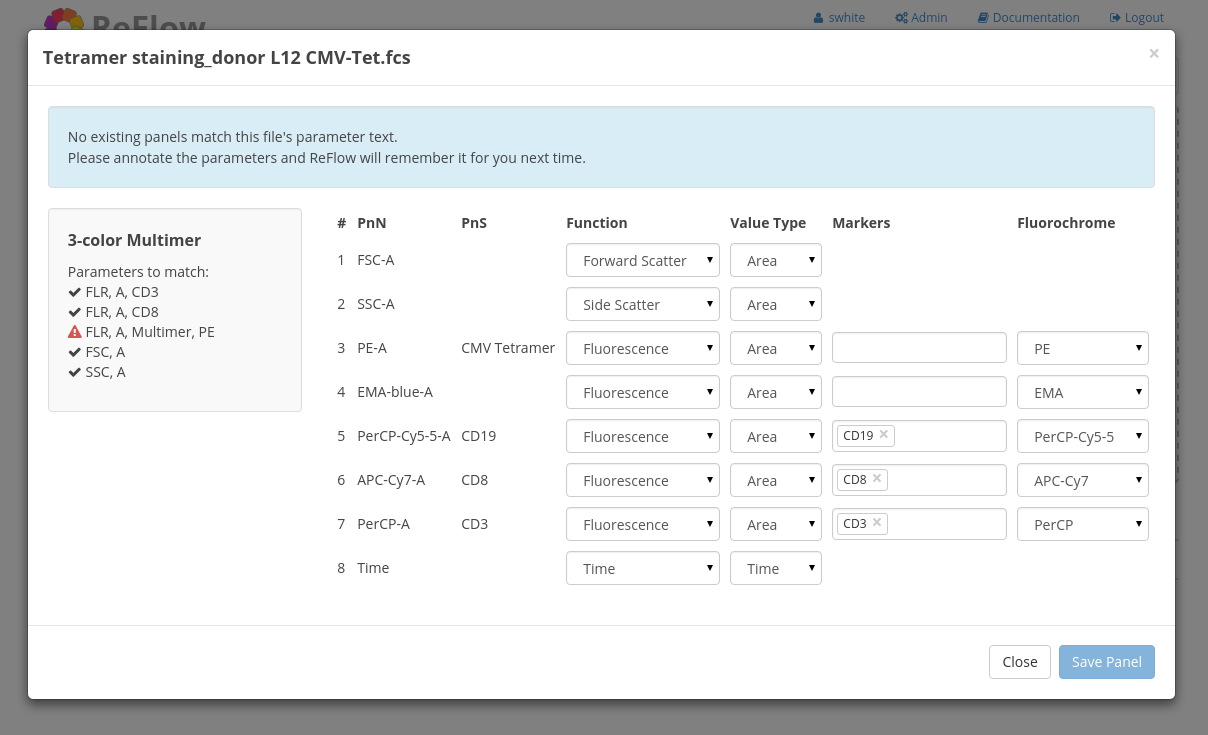
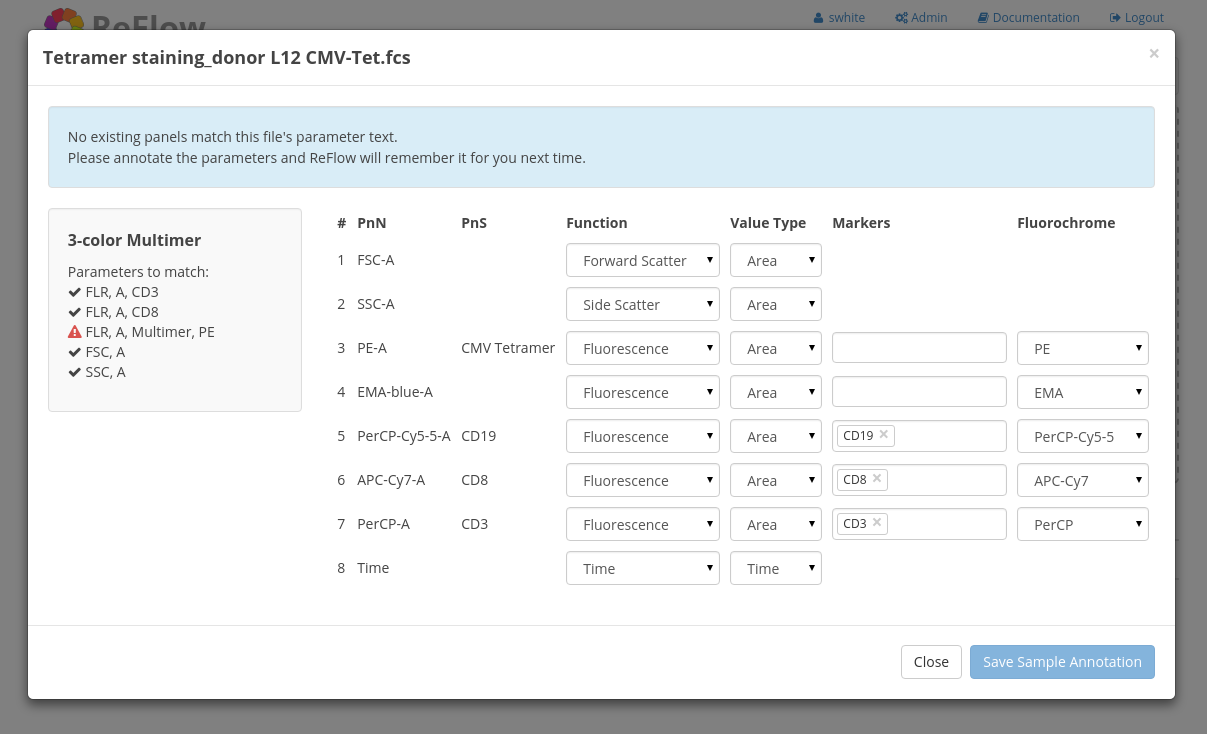
new docs build

diff --git a/static/docs/html/searchindex.js b/static/docs/html/searchindex.js
@@ -1,1 +1,1 @@
-Search.setIndex({envversion:46,filenames:["index","intro","permissions","server-setup","site-nav","tutorials-index","tutorials/add-fluorochrome","tutorials/add-marker","tutorials/add-panel-variant","tutorials/add-project","tutorials/add-site","tutorials/add-stimulation","tutorials/add-subject","tutorials/add-subject-group","tutorials/add-visit-type","tutorials/create-panel-template","tutorials/labelling-fcs-channels","tutorials/upload-samples","worker-setup"],objects:{},objnames:{},objtypes:{},terms:{"1_util":18,"22_linux_64":18,"5_5":18,"5_sampl":18,"case":4,"default":[3,4],"final":2,"function":[2,4,8,15],"import":[3,4],"long":15,"new":[],"static":3,"super":[2,3,4],"try":[6,7,17],"while":[1,2,4],a2dissit:3,a2ensit:3,abbrevi:[6,7,8],abl:15,about:[4,15],abov:[17,18],access:[1,2,3,4],accord:3,accordingli:2,account:[],acquir:4,acquisit:[1,4,17],across:[1,2,4],action:4,activ:4,actual:[4,8,15],addit:[4,15],address:4,admin:[3,4,18],administr:[2,4],after:2,alert:3,alia:3,all:[1,2,3,4,15,17,18],allow:[1,2,3,4,15,17],allowoverrid:3,along:[4,6,7,9,10,11,12,13,14],alreadi:[3,15,18],also:[2,3,4,6,7,10,11,12,13,14,15,17],alwai:3,ambigu:4,among:4,amount:17,analysi:[1,2,4],analyz:[1,4],andrewcron:18,ani:[1,2,3,4,15,17],annot:[],anoth:[1,16],antibodi:8,antigen:4,anywher:17,apach:[],apache_log_dir:3,apc:6,api:1,app:3,appear:[6,7,9,10,11,12,13,14,15,17],append:3,appli:2,applic:[1,3],appropri:17,apt:[3,18],aquaamin:[1,4],archiv:2,area:[4,8,15],aros:1,assai:[1,4],associ:[1,2,4,15],attempt:[1,4,17],authent:4,auto:17,autom:[1,2,4],automat:[9,15],avail:[3,4],avoid:[6,7],back:17,backend:3,bal:4,bar:17,base:1,base_dir:3,baselin:[1,4],basi:1,batch:4,becom:3,been:[15,17],befor:17,begin:15,belong:[1,2,4],below:[4,17],besid:[6,7,10,11,12,13,14,15,17],between:[2,4],bind:4,binutil:18,bioinformat:1,biolog:[1,4],biostatist:1,bit:18,blood:4,blue:4,bone:4,border:17,both:[2,4,15],box:[8,15,17],breadcrumb:4,bronchoalveolar:4,brows:[3,4],browser:1,bsd:1,build:[4,18],built:[],button:[6,7,8,9,10,11,12,13,14,15,17],calendar:17,call:15,can:[1,2,3,4,6,7,10,11,12,13,14,15,17,18],cancer:4,cannot:[2,6,7,10,11,12,13,14,15],categor:[1,17],categori:[],cd14:1,cd3:[1,7,8,15],cd8:[8,15],cell:[1,4],certain:3,cgi:3,chang:[2,3,4,18],channel:[],check:[17,18],checkbox:17,chemic:4,children:2,chmod:18,chosen:[8,17],click:[4,6,7,8,9,10,11,12,13,14,15,17],client:18,clinic:[1,4],clone:[3,18],close:[6,7,8,9,10,11,12,13,14],code:[1,4,12,17],coerc:1,coincident:[2,4],collect:[1,3,4],collectstat:3,color:[4,15],column:[8,17],com:[3,18],combin:[2,3,4,8],common:[1,4],commonli:[6,7,8],compens:[1,2],compil:18,complain:3,complet:[1,6,7,8,9,10,11,12,13,14,15,17],complex:1,comput:[4,18],condit:[1,4],conf:[3,18],config:18,configur:[],confirm:2,conjug:[4,8],construct:4,contain:[1,4,8,15],content:[0,3,18],continu:[15,17],control:[1,4,8],conveni:3,convent:4,convers:4,copi:3,core:3,corner:[4,15],correct:17,correctli:[3,17],correspond:15,could:[2,4],count:[],cours:4,creat:[],creation:[4,15],credenti:4,crit:3,criteria:1,csv:[],cuda:18,cuda_5:18,curl:18,current:4,custom:1,customlog:3,cy7:[8,15],cyarma:18,cyrand:18,cython:18,cytomet:4,cytometri:[1,4,8],dash:17,dashboard:4,data:[],date:[1,17],debug:3,defin:[1,4],delet:[2,15],deni:3,depart:1,depend:[3,4,18],deploi:[1,4],describ:[4,8,15],descript:[1,4,9,11,13,14],design:4,desir:[],detail:[],detect:4,dev:18,develop:[1,3,18],deviat:4,devicequeri:18,dialog:[2,16,17],differ:[1,2,3,4],differenti:[1,8],difficult:1,direct:15,directli:4,directori:[3,18],disabl:3,disallow:9,discrimin:4,displai:[2,4,6,7,8,9,10,11,12,13,14,17],distinguish:4,django_extens:3,django_settings_modul:3,djangorestframework:3,doe:[2,3,4],done:18,down:17,download:[3,18],dpmix:18,drag:17,drive:1,driver:[3,18],drop:17,duke:1,dukestat:18,duplic:[1,4,6,7,9,10,11,12,13,14,15,17],each:[1,2,4,15,17,18],edit:[1,2,3,4,15,18],either:17,els:[3,15],emerg:3,enabl:[],engin:3,ensur:[4,17],enter:[8,10,17],environ:3,equival:4,error:[3,6,7,9,10,11,12,13,14,15,17],errorlog:3,especi:1,essenti:3,etc:[1,2,3,15,17,18],evalu:4,even:[1,4,8],everyth:[3,18],exact:4,exampl:[],execcgi:3,execut:18,exist:[1,2,15,17],exit:3,experi:[1,4,15],expertis:1,extens:[1,3],extra:15,fals:3,featur:[],field:[1,6,7,9,10,11,12,13,14,15,17],file:[1,2,3,4,16,17,18],fill:[6,7,9,11,12,13,14],filter:[1,2,3,12],find:[1,4],first:[4,15,17],fitc:[1,4,6,8,15],fl1:4,fl2:4,flow:[1,4,8,18],flowio:18,flowstat:18,flowutil:18,fluoresc:[4,8,15],fluorochrom:[],fmo:[4,8],focu:1,focus:1,follow:[2,3,4,8,15,17,18],followup:8,forget:4,form:[6,7,8,9,10,11,12,13,14,15],formal:[2,4],forward:[4,8,15],found:[2,4],fresh:18,from:[1,2,3,4,6,7,8,10,11,12,13,14,15,16,17,18],full:[4,8,15],further:1,gcc:18,gener:[2,3,4],generate_secret_kei:3,get:[3,18],get_wsgi_appl:3,gfortran:18,git:[3,18],github:[3,18],give:15,global:3,govern:4,gpu:4,gpustat:18,grant:3,granular:2,green:[4,8,15],grei:17,group:[],guardian:3,guid:[3,4,18],hand:15,harmon:1,have:[1,2,3,4,6,7,10,11,12,13,14,15,17,18],head:[6,7,8,10,11,12,13,14,15,17],header:[],height:[4,15],here:[3,15],hide:3,hierarchi:1,home:[],host:[3,18],how:1,howev:[1,2,4,15,17,18],http:[3,18],identif:[1,4],identifi:[1,4,17],ifng:[1,7],implement:1,inaccur:4,includ:[2,3,4,15],inconsist:1,incorrectli:17,index:3,indic:4,individu:[1,4],info:[3,15],inform:[1,2,4,15,16],instal:[],instead:4,institut:[1,4],instruct:[15,17,18],intact:2,inter:1,interact:17,interpret:1,intracellular:4,introduct:[],ipython:3,isotyp:[4,8],json:18,just:[1,3],keep:[2,6,7],kei:3,lab:[1,4],label:[],laboratori:[1,4],larg:17,laser:4,last:[],latest:18,lavag:4,lead:4,least:[4,17],left:[15,17],level:[1,2,4,6,7,8,10,11,12,13,14,15,17],libapache2:3,libarmadillo:18,libbla:18,libboost1:18,liblapack:18,licens:1,light:17,like:3,likewis:4,limit:4,line:[3,17],link:[4,6,7,8,10,11,12,13,14,15,17],linux:18,list:[1,3,4,6,7,8,9,10,11,12,13,14,15,17],list_of_tz_zones_by_nam:3,listen:3,live:3,lnc:4,local:3,localhost:3,locat:[1,3,4,6,7,8,10,11,12,13,14,15,17,18],log:[3,4],login:[],loglevel:3,logo:4,logout:4,look:3,lower:15,lymph:4,machin:18,made:17,mai:[1,2,3,4],main:[3,6,7,10,11,12,13,14,15,17],major:[],make:[17,18],manual:[1,17],map:[1,4],mark:4,marker:[],marrow:4,master:1,match:[4,17],matplotlib:3,matric:1,matrix:1,meant:[1,2,3],mechan:8,media_root:3,meet:15,menu:17,metadata:[1,17],middlewar:3,minu:[4,8],mixtur:4,mkdir:3,mkdtemp:3,mod:3,modal:[6,7,8,9,10,11,12,13,14],model:1,modul:3,mononuclear:4,month:4,more:[1,3,4,15,16],most:1,move:17,mpi4pi:18,mplconfigdir:3,multim:[8,15],multipl:[1,4,15],must:[1,4,15],name:[1,2,3,4,9,10,11,13,14,15,17,18],namespac:1,navig:[],necessari:3,need:[3,8,15,17],net:18,next:17,nice:3,node:4,non:[],none:3,nor:2,normal:1,note:[1,3,4,6,7,9,11,12,13,14,15,18],notic:3,number:[1,3,4,17],numpi:[3,18],nvidia:[4,18],nvidia_cuda:18,object:1,occur:4,off:3,often:4,onc:[4,6,7,8,9,10,11,12,13,14,15,17,18],onli:[2,3,4],onlin:1,open:[1,3,17],oper:[1,2],option:[],orang:17,order:[3,4],org:3,organ:1,origin:2,other:[1,2,3,4,18],otherwis:17,our:[3,8,15],out:[1,4,6,7,9,11,12,13,14],output:3,own:[2,3,4],pacblu:1,packag:[3,18],page:[],pair:4,panel:[],paramet:[],parent:4,part:[15,16],particular:[2,4],pass:18,password:[3,4],past:3,path:[3,4],pathogen:4,pbmc:4,peptid:4,per:1,perhap:15,peripher:4,permiss:[],pg_hba:3,pip:[3,18],pipelin:[1,2,4],place:17,plu:8,point:[4,17],popul:[4,17],port:3,posgr:3,posit:4,possibl:[3,4,6,7],postgr:3,postgresql_psycopg2:3,potenti:4,pre:17,prefer:4,prepar:1,present:[1,4,8,17],prevent:1,previou:[3,18],previous:[],primari:1,prior:[4,15],privileg:[3,4,9,18],problem:[1,4],proce:17,procedur:[],prod:3,produc:1,profici:[1,4],program:18,programmat:1,progress:17,project:[],prolifer:4,prompt:[3,18],proper:[4,18],properti:[4,15],protein:4,provid:[1,2,4,8],psql:3,psycopg2:3,pure:[2,4],pycuda:18,python:[3,18],queue:17,quit:3,random:3,rare:1,rather:4,reach:17,reason:4,reboot:18,recov:2,recurs:18,red:15,reduc:17,refer:2,reflow_server_ip_address:18,reflow_work:18,reflowrestcli:18,reflowwork:18,region:17,rel:18,relat:[2,4],relationship:[2,4],releas:1,relev:12,remain:[2,15],remot:4,remov:[2,17],repo:18,repositori:[1,3],repres:4,reproduc:1,requir:[1,4,6,7,8,9,10,11,12,13,14,15,17],respect:[],rest:1,restart:3,result:1,retain:4,right:[4,6,7,9,10,11,12,13,14,15,17],robust:1,role:4,root:18,row:8,rule:4,run:[3,18],saa:1,same:[1,2,3,4,8,15,17],sampl:[],sav:15,save:[4,6,7,8,9,10,11,12,13,14],scatter:[4,8,15],scheme:4,scipi:18,screen:[],seb:4,secret:3,secret_kei:3,see:[2,3,4,6,7,8,9,10,11,12,13,14,15,16,17],seen:[],select:17,send:[1,4],separ:[3,4],sequest:1,serv:3,server:[],serveradmin:3,serversignatur:3,servertoken:3,servic:[1,3],setdefault:3,settings_sampl:3,setup:[],sever:4,share:[1,2,4,8],shell:3,should:[2,3,15,17],show:[9,17],side:[3,4,8,15],sign:8,similar:[3,4],similarli:2,simpli:4,sinc:[2,4,8],singl:4,site:[],size:[],slightli:4,smi:18,softwar:1,solitari:1,solv:[1,4],some:4,somedb:3,somehost:3,somepassword:3,someus:3,somewhat:4,sourc:[1,2],space:[6,7],special:4,specif:[1,4,15],specifi:[4,15],specimen:[],sqlite3:3,srv:3,stain:[4,8,15],standard:1,start:[15,18],statu:17,step:[16,17,18],still:15,stim:4,stimul:[],store:3,string:4,structur:8,style:1,subject:[],subsequ:4,subset:[1,4],substanti:1,succinct:[6,7],sudo:[3,18],superus:[4,9],support:1,sure:[17,18],surfac:4,syncdb:3,system:[1,2,3,4],tabl:[],tag:[4,8],taken:[1,4],task:[3,4],technic:2,tempfil:3,templat:[],tempor:[1,4],test:[1,4,18],text:[4,8,15],thei:[2,4,17],them:[2,4,6,7,8,17],therefor:2,thi:[1,2,3,4,8,15,17,18],those:[2,4,15],though:4,through:4,tiker:18,time:4,time_zon:3,tissu:4,token:[4,18],top:1,train:1,treat:2,tree:18,trial:[1,4],turn:3,tutori:[],type:[],typic:4,typo:4,ubuntu:[3,18],unawar:2,under:[1,2,4,6,7,8,10,11,12,13,14,15,17],undo:2,uniqu:4,univers:1,unstain:[4,8],unstimul:4,updat:[2,3,4,9],upgrad:3,upload:[],upper:[4,6,7,9,10,11,12,13,14,15,17],url:3,usag:4,user:[],usernam:4,util:[4,18],valid:[6,7,9,10,11,12,13,14],valu:[3,4,8,15,17,18],vamin:1,vari:[1,8],variabl:1,variant:[],variat:8,variou:[4,15,17],verifi:17,version:3,versu:4,via:4,viabil:15,view:[],violet:1,violetamin:1,virtual:3,virtualhost:[],visit:[],vitro:1,wai:4,want:8,warn:3,web:[1,4],webmast:3,well:[2,4,17],were:[6,7,9,10,11,12,13,14],what:[],whatev:[3,4],when:[1,2,4,17,18],where:[1,3],wherea:1,which:[1,2,4,8,17],whichev:3,whitew:[3,18],whole:4,why:[],width:4,wiki:3,wikipedia:3,window:[2,6,7,8,9,10,11,12,13,14,16,17],wish:17,within:[1,2,4,17],work:18,worker:[],worker_nam:18,worker_token:18,would:[1,3,4,17],writabl:3,wsgi:3,wsgiapplicationgroup:3,wsgiscriptalia:3,www:3,x86_64:18,xfree86:18,you:[2,3,4,8,15,17,18],your:[3,4,15],zero:4},titles:["Welcome to ReFlow&#8217;s documentation!","Introduction","User Accounts &amp; Permissions","Server Setup","Site Navigation","Tutorials","Tutorial - Adding a Fluorochrome","Tutorial - Adding a Marker","Tutorial - Adding a Panel Variant","Tutorial - Adding a New Project","Tutorial - Adding a Site","Tutorial - Adding a Stimulation","Tutorial - Adding a Subject","Tutorial - Adding a Subject Group","Tutorial - Adding a Visit Type","Tutorial - Creating a Panel Template","Tutorial - Labelling FCS Channels","Tutorial - Uploading Samples","Worker Setup"],titleterms:{"new":9,account:2,add:2,annot:4,apach:3,apache2:3,built:1,categori:4,channel:16,choos:3,configur:3,creat:[3,15],data:[1,2],databas:3,detail:4,django:3,document:0,enabl:3,exampl:[],featur:1,fluorochrom:[4,6],group:[4,13],home:4,instal:3,introduct:[1,8,15],label:16,login:4,major:1,manag:2,marker:[4,7],mod_wsgi:3,modifi:2,navig:4,non:4,option:3,page:4,panel:[4,8,15],paramet:[],permiss:2,postgresql:3,procedur:[8,15],process:2,project:[2,4,9],recommend:3,reflow:[0,1],request:2,sampl:[4,17],screen:4,script:3,server:3,set:3,setup:[3,18],site:[2,4,10],specimen:4,stimul:[4,11],subject:[4,12,13],submit:2,templat:[4,15],tutori:[5,6,7,8,9,10,11,12,13,14,15,16,17],type:[1,4,14],upload:17,user:2,variant:8,view:2,virtualhost:3,visit:[4,14],welcom:0,what:1,why:1,worker:[4,18]}})
+Search.setIndex({envversion:46,filenames:["index","intro","permissions","server-setup","site-nav","tutorials-index","tutorials/add-fluorochrome","tutorials/add-marker","tutorials/add-panel-variant","tutorials/add-project","tutorials/add-site","tutorials/add-stimulation","tutorials/add-subject","tutorials/add-subject-group","tutorials/add-visit-type","tutorials/create-panel-template","tutorials/labelling-fcs-channels","tutorials/upload-samples","worker-setup"],objects:{},objnames:{},objtypes:{},terms:{"1_util":18,"22_linux_64":18,"5_5":18,"5_sampl":18,"case":4,"default":[3,4],"final":2,"function":[2,4,8,15,16],"import":[3,4],"long":15,"new":[],"null":16,"static":3,"super":[2,3,4],"try":[6,7,17],"while":[1,2,4],a2dissit:3,a2ensit:3,abbrevi:[6,7,8],abl:15,about:[4,15],abov:[17,18],access:[1,2,3,4],accord:3,accordingli:2,account:[],acquir:4,acquisit:[1,4,17],across:[1,2,4],action:4,activ:4,actual:[4,8,15],addit:[4,15],address:4,admin:[3,4,18],administr:[2,4],after:2,alert:3,alia:3,all:[1,2,3,4,15,16,17,18],allow:[1,2,3,4,15,16,17],allowoverrid:3,along:[4,6,7,9,10,11,12,13,14],alreadi:[3,15,18],also:[2,3,4,6,7,10,11,12,13,14,15,17],alwai:3,ambigu:4,among:4,amount:17,analysi:[1,2,4,16],analyz:[1,4],andrewcron:18,ani:[1,2,3,4,15,16,17],annot:[],anoth:1,antibodi:8,antigen:4,anywher:17,apach:[],apache_log_dir:3,apc:6,api:1,app:3,appear:[6,7,9,10,11,12,13,14,15,17],append:3,appli:2,applic:[1,3],appropri:[16,17],apt:[3,18],aquaamin:[1,4],archiv:2,area:[4,8,15],aros:1,assai:[1,4],associ:[1,2,4,15],attempt:[1,4,17],authent:4,auto:[16,17],autom:[1,2,4],automat:[9,15],avail:[3,4],avoid:[6,7],back:17,backend:3,bal:4,bar:17,base:[1,16],base_dir:3,baselin:[1,4],basi:1,batch:4,becom:3,been:[15,16,17],befor:17,begin:15,belong:[1,2,4],below:[4,16,17],besid:[6,7,10,11,12,13,14,15,16,17],between:[2,4],bind:4,binutil:18,bioinformat:1,biolog:[1,4],biostatist:1,bit:18,blood:4,blue:4,bone:4,border:17,both:[2,4,15],box:[8,15,17],breadcrumb:4,bronchoalveolar:4,brows:[3,4],browser:1,bsd:1,build:[4,18],built:[],button:[6,7,8,9,10,11,12,13,14,15,16,17],calendar:17,call:15,can:[1,2,3,4,6,7,10,11,12,13,14,15,16,17,18],cancer:4,cannot:[2,6,7,10,11,12,13,14,15],categor:[1,16,17],categori:[],cd14:1,cd3:[1,7,8,15],cd8:[8,15],cell:[1,4],certain:3,cgi:3,chang:[2,3,4,18],channel:[],check:[16,17,18],checkbox:17,chemic:4,children:2,chmod:18,chosen:[8,16,17],click:[4,6,7,8,9,10,11,12,13,14,15,16,17],client:18,clinic:[1,4],clone:[3,18],close:[6,7,8,9,10,11,12,13,14],code:[1,4,12,17],coerc:1,coincident:[2,4],collect:[1,3,4],collectstat:3,color:[4,15],column:[8,16,17],com:[3,18],combin:[2,3,4,8],common:[1,4],commonli:[6,7,8],compens:[1,2],compil:18,complain:3,complet:[1,6,7,8,9,10,11,12,13,14,15,17],complex:1,comput:[4,18],condit:[1,4],conf:[3,18],config:18,configur:[],confirm:2,conjug:[4,8,16],construct:4,contain:[1,4,8,15,16],content:[0,3,16,18],continu:[15,16,17],contribut:16,control:[1,4,8],conveni:3,convent:4,convers:4,copi:3,core:3,corner:[4,15],correct:[16,17],correctli:[3,16,17],correspond:15,could:[2,4],count:[],cours:4,creat:[],creation:[4,15],credenti:4,crit:3,criteria:1,csv:[],cuda:18,cuda_5:18,curl:18,current:4,custom:1,customlog:3,cy7:[8,15],cyarma:18,cyrand:18,cython:18,cytomet:[4,16],cytometri:[1,4,8],dash:17,dashboard:4,data:[],date:[1,17],debug:3,defin:[1,4,16],delet:[2,15],deni:3,depart:1,depend:[3,4,18],deploi:[1,4],describ:[4,8,15,16],descript:[1,4,9,11,13,14],design:4,desir:[],detail:[],detect:4,detector:16,dev:18,develop:[1,3,18],deviat:4,devicequeri:18,dialog:[2,16,17],did:16,differ:[1,2,3,4],differenti:[1,8],difficult:1,direct:15,directli:4,directori:[3,18],disabl:[3,16],disallow:9,disappear:16,discrimin:4,displai:[2,4,6,7,8,9,10,11,12,13,14,16,17],distinguish:4,django_extens:3,django_settings_modul:3,djangorestframework:3,doe:[2,3,4],done:18,down:[16,17],download:[3,18],dpmix:18,drag:17,drive:1,driver:[3,18],drop:[16,17],duke:1,dukestat:18,duplic:[1,4,6,7,9,10,11,12,13,14,15,17],each:[1,2,4,15,16,17,18],edit:[1,2,3,4,15,18],either:17,element:16,els:[3,15],emerg:3,enabl:[],engin:3,ensur:[4,16,17],enter:[8,10,17],environ:3,equival:4,error:[3,6,7,9,10,11,12,13,14,15,16,17],errorlog:3,especi:1,essenti:3,etc:[1,2,3,15,17,18],evalu:4,even:[1,4,8,16],everyth:[3,18],exact:4,exampl:[],execcgi:3,execut:18,exist:[1,2,15,17],exit:3,experi:[1,4,15],expertis:1,extens:[1,3],extra:15,fals:3,featur:[],field:[1,6,7,9,10,11,12,13,14,15,16,17],file:[1,2,3,4,16,17,18],fill:[6,7,9,11,12,13,14],filter:[1,2,3,12],find:[1,4],first:[4,15,16,17],fitc:[1,4,6,8,15],fl1:4,fl2:4,flow:[1,4,8,18],flowio:18,flowstat:18,flowutil:18,fluoresc:[4,8,15,16],fluorochrom:[],fmo:[4,8],focu:1,focus:1,follow:[2,3,4,8,15,17,18],followup:8,forget:4,form:[6,7,8,9,10,11,12,13,14,15,16],formal:[2,4],forward:[4,8,15],found:[2,4,16],fresh:18,from:[1,2,3,4,6,7,8,10,11,12,13,14,15,16,17,18],full:[4,8,15],further:1,gcc:18,gener:[2,3,4],generate_secret_kei:3,get:[3,18],get_wsgi_appl:3,gfortran:18,git:[3,18],github:[3,18],give:15,global:3,govern:4,gpu:4,gpustat:18,grant:3,granular:2,green:[4,8,15],grei:17,group:[],guardian:3,guid:[3,4,18],hand:[15,16],harmon:1,have:[1,2,3,4,6,7,10,11,12,13,14,15,16,17,18],head:[6,7,8,10,11,12,13,14,15,17],header:[],height:[4,15],here:[3,15],hide:3,hierarchi:1,home:[],host:[3,18],how:1,howev:[1,2,4,15,16,17,18],http:[3,18],identif:[1,4],identifi:[1,4,17],ifng:[1,7],implement:1,inaccur:4,includ:[2,3,4,15,16],incomplet:16,inconsist:1,incorrect:16,incorrectli:17,index:3,indic:[4,16],individu:[1,4],info:[3,15],inform:[1,2,4,15,16],instal:[],instead:4,institut:[1,4],instruct:[15,17,18],intact:2,intend:16,inter:1,interact:17,interpret:1,intracellular:4,introduct:[],ipython:3,isotyp:[4,8],json:18,just:[1,3],keep:[2,6,7],kei:3,lab:[1,4],label:[],laboratori:[1,4],larg:17,laser:4,last:[],latest:18,lavag:4,lead:4,least:[4,17],left:[15,16,17],level:[1,2,4,6,7,8,10,11,12,13,14,15,17],libapache2:3,libarmadillo:18,libbla:18,libboost1:18,liblapack:18,licens:1,light:17,like:3,likewis:4,limit:4,line:[3,17],link:[4,6,7,8,10,11,12,13,14,15,17],linux:18,list:[1,3,4,6,7,8,9,10,11,12,13,14,15,16,17],list_of_tz_zones_by_nam:3,listen:3,live:3,lnc:4,local:3,localhost:3,locat:[1,3,4,6,7,8,10,11,12,13,14,15,17,18],log:[3,4],login:[],loglevel:3,logo:4,logout:4,look:3,lower:15,lymph:4,machin:18,made:17,mai:[1,2,3,4,16],main:[3,6,7,10,11,12,13,14,15,16,17],major:[],make:[17,18],manual:[1,17],map:[1,4],mark:[4,16],marker:[],marrow:4,master:1,match:[4,16,17],matplotlib:3,matric:1,matrix:[1,16],meant:[1,2,3],mechan:8,media_root:3,meet:15,menu:17,messag:16,metadata:[1,16,17],middlewar:3,minu:[4,8],mixtur:4,mkdir:3,mkdtemp:3,mod:3,modal:[6,7,8,9,10,11,12,13,14],model:1,modul:3,mononuclear:4,month:4,more:[1,3,4,15,16],most:1,move:17,mpi4pi:18,mplconfigdir:3,multim:[8,15],multipl:[1,4,15],multiplex:16,must:[1,4,15,16],name:[1,2,3,4,9,10,11,13,14,15,17,18],namespac:1,navig:[],necessari:3,need:[3,8,15,17],net:18,next:[16,17],nice:3,node:4,non:[],none:3,nor:2,normal:1,note:[1,3,4,6,7,9,11,12,13,14,15,18],notic:[3,16],number:[1,3,4,16,17],numpi:[3,18],nvidia:[4,18],nvidia_cuda:18,object:1,occur:[4,16],off:3,often:4,onc:[4,6,7,8,9,10,11,12,13,14,15,16,17,18],onli:[2,3,4,16],onlin:1,open:[1,3,17],oper:[1,2],option:[],orang:17,order:[3,4],org:3,organ:1,origin:2,other:[1,2,3,4,18],otherwis:17,our:[3,8,15],out:[1,4,6,7,9,11,12,13,14],output:3,own:[2,3,4],pacblu:1,packag:[3,18],page:[],pair:4,panel:[],paramet:[],parent:4,part:[15,16],particular:[2,4],pass:18,password:[3,4],past:3,path:[3,4],pathogen:4,pbmc:4,peptid:4,per:[1,16],perhap:15,peripher:4,permiss:[],pg_hba:3,pip:[3,18],pipelin:[1,2,4],place:17,plu:8,pnn:16,point:[4,17],popul:[4,16,17],port:3,posgr:3,posit:4,possibl:[3,4,6,7],postgr:3,postgresql_psycopg2:3,potenti:4,pre:[16,17],prefer:4,prepar:1,present:[1,4,8,16,17],prevent:1,previou:[3,18],previous:[],primari:1,prior:[4,15],privileg:[3,4,9,16,18],problem:[1,4],proce:17,procedur:[],prod:3,produc:1,profici:[1,4],program:18,programmat:1,progress:17,project:[],prolifer:4,prompt:[3,18],proper:[4,18],properti:[4,15],protein:4,provid:[1,2,4,8],psql:3,psycopg2:3,pure:[2,4],pycuda:18,python:[3,18],queue:[16,17],quit:3,random:3,rare:1,rather:4,reach:17,reason:4,reboot:18,recov:2,recurs:18,red:[15,16],reduc:17,refer:2,reflow_server_ip_address:18,reflow_work:18,reflowrestcli:18,reflowwork:18,region:17,rel:18,relat:[2,4],relationship:[2,4],releas:1,relev:12,remain:[2,15,16],remot:4,remov:[2,17],repo:18,repositori:[1,3],repres:4,reproduc:1,requir:[1,4,6,7,8,9,10,11,12,13,14,15,16,17],reserv:16,respect:[],rest:1,restart:3,result:1,retain:4,right:[4,6,7,9,10,11,12,13,14,15,16,17],robust:1,role:4,root:18,row:[8,16],rule:4,run:[3,18],saa:1,same:[1,2,3,4,8,15,17],sampl:[],sav:15,save:[4,6,7,8,9,10,11,12,13,14,16],scatter:[4,8,15,16],scenario:16,scheme:4,scipi:18,screen:[],seb:4,secret:3,secret_kei:3,section:16,see:[2,3,4,6,7,8,9,10,11,12,13,14,15,16,17],seen:[],select:17,send:[1,4],separ:[3,4],sequest:1,serv:3,server:[],serveradmin:3,serversignatur:3,servertoken:3,servic:[1,3],setdefault:3,settings_sampl:3,setup:[],sever:4,share:[1,2,4,8],shell:3,should:[2,3,15,17],show:[9,17],side:[3,4,8,15,16],sign:8,similar:[3,4],similarli:2,simpli:4,sinc:[2,4,8],singl:4,site:[],size:[],slightli:4,smi:18,softwar:1,solitari:1,solv:[1,4],some:4,somedb:3,somehost:3,somepassword:3,someus:3,somewhat:4,sourc:[1,2],space:[6,7],special:4,specif:[1,4,15],specifi:[4,15,16],specimen:[],spillov:16,split:16,sqlite3:3,srv:3,stain:[4,8,15],standard:1,start:[15,18],statu:[16,17],step:[17,18],still:15,stim:4,stimul:[],store:3,string:4,structur:8,style:1,subject:[],subsequ:4,subset:[1,4],substanti:1,successfulli:16,succinct:[6,7],sudo:[3,18],superus:[4,9],support:1,sure:[17,18],surfac:4,symbol:16,syncdb:3,system:[1,2,3,4],tabl:16,tag:[4,8],taken:[1,4],task:[3,4],technic:2,tempfil:3,templat:[],tempor:[1,4],test:[1,4,18],text:[4,8,15,16],than:16,thei:[2,4,17],them:[2,4,6,7,8,17],therefor:2,thi:[1,2,3,4,8,15,16,17,18],those:[2,4,15,16],though:[4,16],through:4,tiker:18,time:[4,16],time_zon:3,tissu:4,token:[4,18],top:1,train:1,treat:2,tree:18,trial:[1,4],turn:3,tutori:[],type:[],typic:4,typo:4,ubuntu:[3,18],unawar:2,under:[1,2,4,6,7,8,10,11,12,13,14,15,17],undo:2,uniqu:4,univers:1,unstain:[4,8],unstimul:4,until:16,updat:[2,3,4,9],upgrad:3,upload:[],upper:[4,6,7,9,10,11,12,13,14,15,17],url:3,usag:4,user:[],usernam:4,util:[4,18],valid:[6,7,9,10,11,12,13,14],valu:[3,4,8,15,16,17,18],vamin:1,vari:[1,8],variabl:1,variant:[],variat:8,variou:[4,15,17],verifi:[16,17],version:3,versu:4,via:4,viabil:15,view:[],violet:1,violetamin:1,virtual:3,virtualhost:[],visit:[],vitro:1,wai:[4,16],want:8,warn:[3,16],web:[1,4],webmast:3,well:[2,4,17],were:[6,7,9,10,11,12,13,14],what:[],whatev:[3,4],when:[1,2,4,16,17,18],where:[1,3,16],wherea:1,which:[1,2,4,8,17],whichev:3,whitew:[3,18],whole:4,why:[],width:4,wiki:3,wikipedia:3,window:[2,6,7,8,9,10,11,12,13,14,16,17],wish:17,within:[1,2,4,17],work:18,worker:[],worker_nam:18,worker_token:18,would:[1,3,4,16,17],writabl:3,wsgi:3,wsgiapplicationgroup:3,wsgiscriptalia:3,www:3,x86_64:18,xfree86:18,you:[2,3,4,8,15,16,17,18],your:[3,4,15],zero:4},titles:["Welcome to ReFlow&#8217;s documentation!","Introduction","User Accounts &amp; Permissions","Server Setup","Site Navigation","Tutorials","Tutorial - Adding a Fluorochrome","Tutorial - Adding a Marker","Tutorial - Adding a Panel Variant","Tutorial - Adding a New Project","Tutorial - Adding a Site","Tutorial - Adding a Stimulation","Tutorial - Adding a Subject","Tutorial - Adding a Subject Group","Tutorial - Adding a Visit Type","Tutorial - Creating a Panel Template","Tutorial - Labelling FCS Channels","Tutorial - Uploading Samples","Worker Setup"],titleterms:{"new":9,account:2,add:2,annot:4,apach:3,apache2:3,built:1,categori:4,channel:16,choos:3,configur:3,creat:[3,15],data:[1,2],databas:3,detail:4,django:3,document:0,enabl:3,exampl:[],featur:1,fluorochrom:[4,6],group:[4,13],home:4,instal:3,introduct:[1,8,15,16],label:16,login:4,major:1,manag:2,marker:[4,7],mod_wsgi:3,modifi:2,navig:4,non:4,option:3,page:4,panel:[4,8,15],paramet:[],permiss:2,postgresql:3,procedur:[8,15,16],process:2,project:[2,4,9],recommend:3,reflow:[0,1],request:2,sampl:[4,17],screen:4,script:3,server:3,set:3,setup:[3,18],site:[2,4,10],specimen:4,stimul:[4,11],subject:[4,12,13],submit:2,templat:[4,15],tutori:[5,6,7,8,9,10,11,12,13,14,15,16,17],type:[1,4,14],upload:17,user:2,variant:8,view:2,virtualhost:3,visit:[4,14],welcom:0,what:1,why:1,worker:[4,18]}})

diff --git a/static/docs/html/tutorials/labelling-fcs-channels.html b/static/docs/html/tutorials/labelling-fcs-channels.html
@@ -102,7 +102,11 @@
 <li class="toctree-l2"><a class="reference internal" href="add-visit-type.html">Tutorial - Adding a Visit Type</a></li>
 <li class="toctree-l2"><a class="reference internal" href="add-stimulation.html">Tutorial - Adding a Stimulation</a></li>
 <li class="toctree-l2"><a class="reference internal" href="upload-samples.html">Tutorial - Uploading Samples</a></li>
-<li class="toctree-l2 current"><a class="current reference internal" href="">Tutorial - Labelling FCS Channels</a></li>
+<li class="toctree-l2 current"><a class="current reference internal" href="">Tutorial - Labelling FCS Channels</a><ul>
+<li class="toctree-l3"><a class="reference internal" href="#introduction">Introduction</a></li>
+<li class="toctree-l3"><a class="reference internal" href="#procedure">Procedure</a></li>
+</ul>
+</li>
 </ul>
 </li>
 <li class="toctree-l1"><a class="reference internal" href="../server-setup.html">Server Setup</a></li>
@@ -157,15 +161,45 @@
 <h1>Tutorial - Labelling FCS Channels<a class="headerlink" href="#tutorial-labelling-fcs-channels" title="Permalink to this headline">¶</a></h1>
 <div class="admonition note">
 <p class="first admonition-title">Note</p>
-<p class="last">Labelling data is part of the FCS upload process for files with new annotation. See the tutorial on uploading data for more information. <a class="reference internal" href="upload-samples.html"><em>Tutorial - Uploading Samples</em></a></p>
+<p class="last">Labelling data is part of the FCS upload process for files with a new sample annotation. See the tutorial on uploading data for more information. <a class="reference internal" href="upload-samples.html"><em>Tutorial - Uploading Samples</em></a></p>
 </div>
+<div class="section" id="introduction">
+<h2>Introduction<a class="headerlink" href="#introduction" title="Permalink to this headline">¶</a></h2>
+<p>The sample annotation dialog window for the FCS file is split into 2 main sections. The left-hand side displays the required parameters from the Panel Template (the Panel Template chosen when categorizing files in the file queue). The matching status is indicated beside each panel template parameter, where matched parameters display a check mark and non-matching parameters display a red warning symbol.</p>
+<a class="reference internal image-reference" href="../_images/sample-upload-create-site-panel.png"><img alt="../_images/sample-upload-create-site-panel.png" src="../_images/sample-upload-create-site-panel.png" style="width: 1000px;" /></a>
+<p>The right-hand side of the dialog displays a table list the parameters found in the FCS file. The first 3 columns display the channel labels found in the FCS file&#8217;s metadata, including the channel number, the required text (PnN label), and the optional text (PnS label). The next 4 columns contain form elements used to describe the FCS channel, including the channel function, value type, and the markers/fluorochromes defined for the ReFlow project.</p>
+<p>ReFlow pre-populates the form fields based on the contents of the PnN and PnS labels from the file&#8217;s metadata. However, the auto-populated values may be incorrect or incomplete. The user must verify all the form fields to ensure the correct options have been chosen.</p>
+</div>
+<div class="section" id="procedure">
+<h2>Procedure<a class="headerlink" href="#procedure" title="Permalink to this headline">¶</a></h2>
 <ol class="arabic">
-<li><p class="first">From the FCS parameter dialog window...</p>
-<img alt="../_images/sample-upload-create-site-panel.png" src="../_images/sample-upload-create-site-panel.png" />
+<li><p class="first">For each parameter, choose the appropriate function and value type. Notice that the scatter and time functions will not display the marker or fluorochrome fields.</p>
+<blockquote>
+<div><div class="admonition note">
+<p class="first admonition-title">Note</p>
+<p class="last">The &#8220;Null&#8221; function is reserved for channels that do not contain any information. This scenario would occur if a detector was left on in the cytometer even though the sample did not contain a conjugated fluorochrome intended for that channel. Do <strong>not</strong> use a null function for channels that contain a fluorochrome, even if those channels will not be included for analysis. If a channel contributes to the spillover matrix in any way it must be included as a fluorescence channel.</p>
+</div>
+</div></blockquote>
 </li>
-<li><p class="first">Another step</p>
+<li><p class="first">For each fluorescence parameter, choose the appropriate markers and fluorochrome.</p>
+<p>A fluorochrome is required for fluorescence channels. If not specified you will see a warning below the channel row:</p>
+<a class="reference internal image-reference" href="../_images/sample-upload-create-site-panel-fluoro-error.png"><img alt="../_images/sample-upload-create-site-panel-fluoro-error.png" src="../_images/sample-upload-create-site-panel-fluoro-error.png" style="width: 1000px;" /></a>
+<div class="admonition note">
+<p class="first admonition-title">Note</p>
+<p class="last">More than one marker is allowed for multiplex channels, though only one fluorochrome is allowed per channel. If a marker or fluorochrome is present in the FCS file, but not found in the drop-down lists, then those markers/fluorochromes must be added to the project by a user with privileges to add project data (see <a class="reference internal" href="../permissions.html"><em>User Accounts &amp; Permissions</em></a>).</p>
+</div>
+</li>
+<li><p class="first">Once all the sample&#8217;s channels have been correctly described and all the panel template parameters have been matched, click on the &#8220;Save Sample Annotation&#8221; button.</p>
+<a class="reference internal image-reference" href="../_images/sample-upload-create-site-panel-save.png"><img alt="../_images/sample-upload-create-site-panel-save.png" src="../_images/sample-upload-create-site-panel-save.png" style="width: 1000px;" /></a>
+<div class="admonition note">
+<p class="first admonition-title">Note</p>
+<p class="last">The &#8220;Save Sample Annotation&#8221; button will be disabled until all the Panel Template parameters have been matched and no error messages remain for any FCS channels.</p>
+</div>
+</li>
+<li><p class="first">If the Sample Annotation is successfully saved, the dialog window will disappear and you can continue with the FCS file upload process (see <a class="reference internal" href="upload-samples.html"><em>Tutorial - Uploading Samples</em></a>).</p>
 </li>
 </ol>
+</div>
 </div>
 
 

diff --git a/static/docs/html/tutorials-index.html b/static/docs/html/tutorials-index.html
@@ -173,7 +173,11 @@
 <li class="toctree-l1"><a class="reference internal" href="tutorials/add-visit-type.html">Tutorial - Adding a Visit Type</a></li>
 <li class="toctree-l1"><a class="reference internal" href="tutorials/add-stimulation.html">Tutorial - Adding a Stimulation</a></li>
 <li class="toctree-l1"><a class="reference internal" href="tutorials/upload-samples.html">Tutorial - Uploading Samples</a></li>
-<li class="toctree-l1"><a class="reference internal" href="tutorials/labelling-fcs-channels.html">Tutorial - Labelling FCS Channels</a></li>
+<li class="toctree-l1"><a class="reference internal" href="tutorials/labelling-fcs-channels.html">Tutorial - Labelling FCS Channels</a><ul>
+<li class="toctree-l2"><a class="reference internal" href="tutorials/labelling-fcs-channels.html#introduction">Introduction</a></li>
+<li class="toctree-l2"><a class="reference internal" href="tutorials/labelling-fcs-channels.html#procedure">Procedure</a></li>
+</ul>
+</li>
 </ul>
 </div>
 </div>
